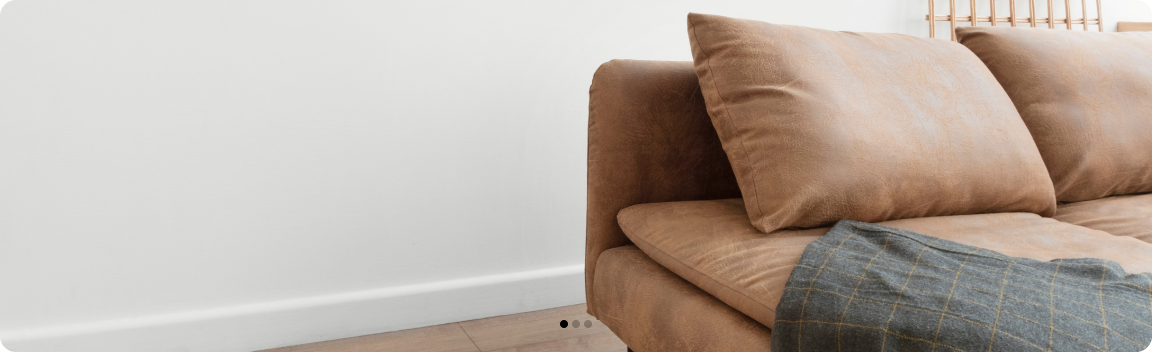
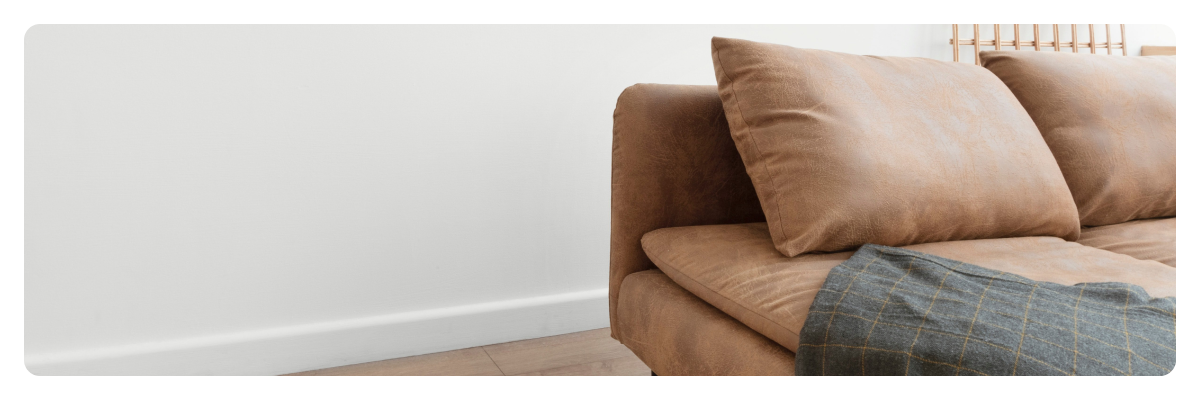
Restructuring some codes

Changed region(s): [[0.0, 0.0, 1.0, 1.0]]

diff --git a/src/pages/index.js b/src/pages/index.js
@@ -1,13 +1,18 @@
 import { useEffect, useState } from "react";
 import Image from "next/image";
 import HomeImage from "@/Public/assets/images/Image.png";
-import Chair from "@/Public/assets/images/chair.png";
+import categories from "@/Data/categories";
+// import Chair from "@/Public/assets/images/chair.png";
+// import sofa from "@/Public/assets/images/sofa.png";
+// import desk from "@/Public/assets/images/desk.png";
+// import desk from ''
 const ProductPage = () => {
   return (
     <>
       <Header />
       <PageImage />
-      <Category />
+      <CategoryList />
+      {/* <h1>Hello World</h1> */}
       {/* <Data /> */}
     </>
   );
@@ -26,14 +31,26 @@ const Header = () => {
 };
 const PageImage = () => {
   return (
-    <section className="relative h-96">
-      <div className="absolute">
+    <section className="relative">
+      {/* <div className="">
         <Image src={HomeImage} alt="Chairs Image" />
       </div>
-      <div className="absolute left-3 top-32">
+      <div className="absolute left-6 top-32">
         <p className="font-bold ">
           High quality sofa <br /> <span className="text-3xl">30% off</span>
         </p>
+      </div> */}
+      <div className="relative text-center w-full">
+        <div className="w-full">
+          <Image src={HomeImage} alt="Chair Image" />
+        </div>
+        <span className="absolute top-1/2 text-center items-center left-6">
+          {" "}
+          <p className="font-bold ">
+            High quality sofa <br />{" "}
+            <span className="lg:text-3xl">30% off</span>
+          </p>
+        </span>
       </div>
     </section>
   );
@@ -69,30 +86,52 @@ const PageImage = () => {
 //   );
 // };
 
-const Category = () => {
+// const Category = () => {
+//   return (
+//     <section className="">
+//       <h1 className="text-xl font-bold pl-2">Category</h1>
+//       <div className="flex mt-2">
+//         <div className="p-2 relative text-center text-white">
+//           <div className="">
+//             <Image src={Chair}  alt="Chair Image" />
+//           </div>
+//           <span className="absolute top-1/2 text-center items-center left-6">Chairs</span>
+//         </div>
+//         <div className="p-2 relative text-center text-white">
+//           <div className="">
+//             <Image src={sofa} alt="Chair Image" />
+//           </div>
+//           <span className="absolute top-1/2 text-center items-center left-6">Sofas</span>
+//         </div>
+//         <div className="p-2 relative text-center text-white">
+//           <div className="">
+//             <Image src={desk} alt="Chair Image" />
+//           </div>
+//           <span className="absolute top-1/2 text-center items-center left-6">Desk</span>
+//         </div>
+
+//       </div>
+//     </section>
+//   );
+// };
+const CategoryList = () => {
   return (
     <section className="">
-      <h1 className="text-xl font-bold">Category</h1>
-      <div className="flex mt-2">
-        <div className="p-2 relative text-center text-white">
-          <div className="">
-            <Image src={Chair} alt="Chair Image" />
+      <h1 className="text-xl font-bold pl-2">Category</h1>
+      {categories.map((category) => {
+        return (
+          <div key={category.key}>
+            <div className="p-2 relative text-center text-white">
+              <div className="">
+                <Image src={`/../../public/assets/images/${category.Image}`} width={400} height={100} alt="Chair Image" />
+              </div>
+              <span className="absolute top-1/2 text-center items-center left-6">
+               {category.name}
+              </span>
+            </div>
           </div>
-          <span className="absolute top-1/2 text-center items-center left-6">Chairs</span>
-        </div>
-        <div className="p-2">
-          {" "}
-          <div>
-            <Image src={Chair} alt="Chair Image" />
-          </div>
-        </div>
-        <div className="p-2">
-          {" "}
-          <div>
-            <Image src={Chair} alt="Chair Image" />
-          </div>
-        </div>
-      </div>
+        );
+      })}
     </section>
   );
 };

diff --git a/components/navbar.js b/components/navbar.js
@@ -3,8 +3,8 @@ import Logo from "@/Public/assets/icons/instor.png";
 import cart from "@/Public/assets/icons/cart.png";
 const Navbar = () => {
   return (
-    <nav className="flex justify-between items-center pt-4">
-      <div className="pl-4 lg:pl-0">
+    <nav className="flex justify-between items-center pt-4 px-4">
+      <div className=" lg:pl-0">
         <Image src={Logo} alt="Instor Logo" />
       </div>
       <div className="flex w-1/6 justify-between">

diff --git a/src/pages/_app.js b/src/pages/_app.js
@@ -3,7 +3,7 @@ import Navbar from "@/components/navbar";
 
 export default function App({ Component, pageProps }) {
   return (
-    <div className="lg:w-4/5 justify-center lg:m-auto md:w-full">
+    <div className="lg:w-4/5 justify-center lg:m-auto px-2">
       <Navbar />
       <Component {...pageProps} />
     </div>

diff --git a/Data/categories.js b/Data/categories.js
@@ -1,0 +1,18 @@
+export default[
+    {
+        key: 1,
+        Image: "chair.png",
+        name: "Chairs",
+    },
+    {
+        key: 2,
+        Image: "sofa.png",
+        name: "Sofa",
+    },
+    {
+        key: 3,
+        Image: "desk.png",
+        name: "Desk",
+    }
+   
+]
